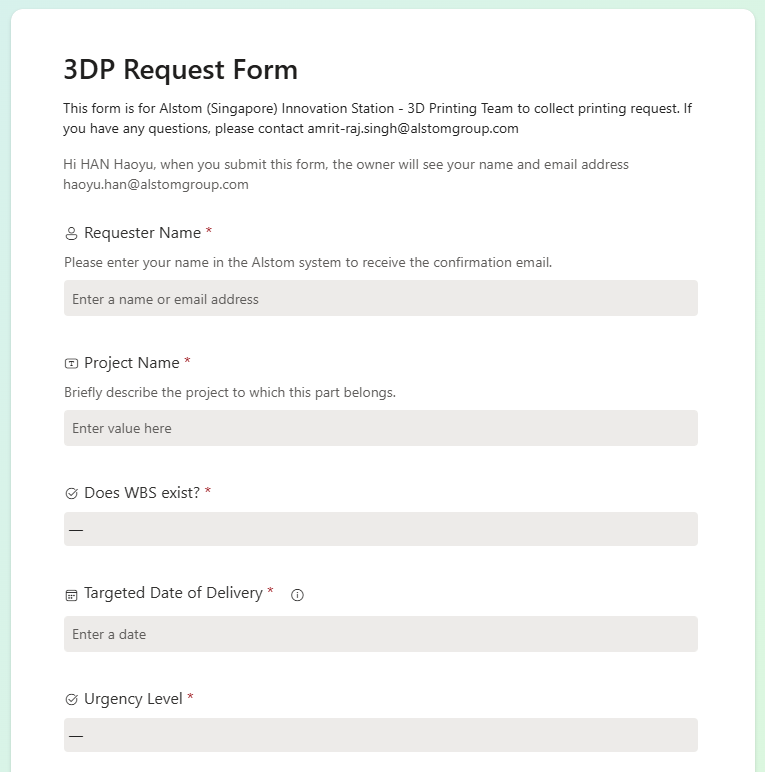
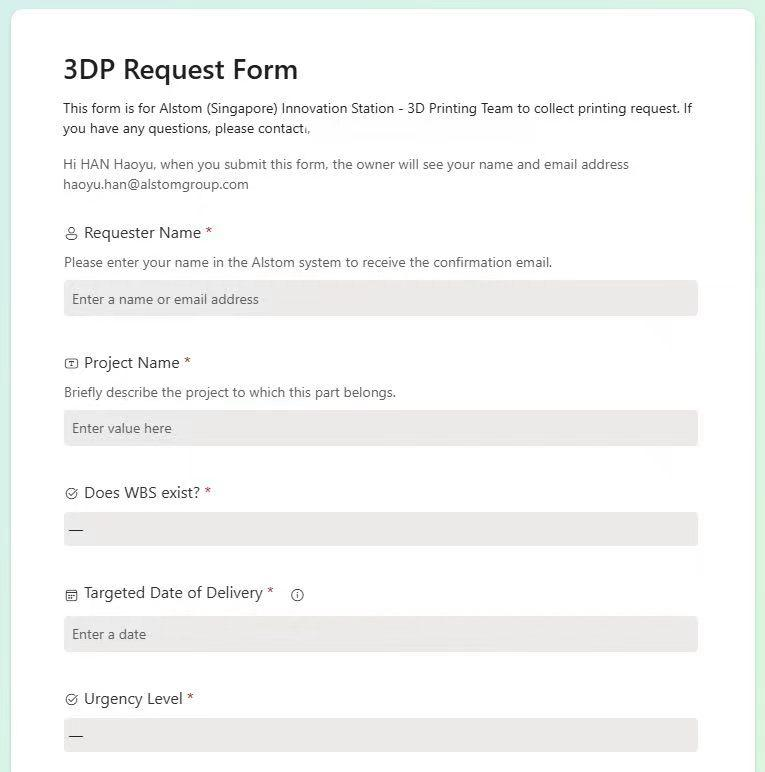
Alstom Details Ready

Changed region(s): [[0.3908, 0.1554, 0.6614, 0.1865]]

diff --git a/src/app/experience/alstom/page.tsx b/src/app/experience/alstom/page.tsx
@@ -16,6 +16,15 @@ const RobotScene = dynamic(() => import("@/components/alstom/RobotScene"), {
     ),
 });
 
+const InteractivePartScene = dynamic(() => import("@/components/alstom/InteractivePartScene"), {
+    ssr: false,
+    loading: () => (
+        <div className="absolute inset-0 flex flex-col items-center justify-center bg-zinc-50 rounded-2xl">
+            <div className="w-6 h-6 border-4 border-zinc-200 border-t-zinc-900 rounded-full animate-spin"></div>
+        </div>
+    ),
+});
+
 function AlstomContent() {
     const searchParams = useSearchParams();
     const lang = searchParams.get("lang") || "zh";
@@ -23,11 +32,36 @@ function AlstomContent() {
 
     const [activeGalleryIndex, setActiveGalleryIndex] = useState(3);
     const galleryMedia = [
-        { type: "image", src: "/media/experience/alstom/gallery-1-tpu.gif" },
-        { type: "image", src: "/media/experience/alstom/gallery-2-indoor-img.png" },
-        { type: "image", src: "/media/experience/alstom/gallery-3-outdoor-img.png" },
-        { type: "video", src: "/media/experience/alstom/gallery-4-rail-test.mp4" },
-        { type: "video", src: "/media/experience/alstom/gallery-5-outdoor-test.mp4" },
+        {
+            type: "image",
+            src: "/media/experience/alstom/gallery-1-tpu.gif",
+            title: isZh ? "FDM 打印工艺与构型多材料测试" : "PETG/TPU Multi-material Prototyping Optimization",
+            desc: isZh ? "测试柔性高分子构件在复杂应力条件下的回弹极限与层间黏结表现。" : "Evaluating interlayer adhesion and elasticity threshold under continuous stress profiling.",
+        },
+        {
+            type: "image",
+            src: "/media/experience/alstom/gallery-2-indoor-img.png",
+            title: isZh ? "车厂实机室内轨道标定与干涉校验" : "Depot Indoor Track Calibration & Interference Analysis",
+            desc: isZh ? "在 Kim Chuan Depot 进行实装匹配，通过多维尺寸校验确保运行动载间隙符合毫米级公差约束。" : "On-site precision fit verification to ensure dynamic clearances comply with millimeter-level tolerances.",
+        },
+        {
+            type: "image",
+            src: "/media/experience/alstom/gallery-3-outdoor-img.png",
+            title: isZh ? "实地部署与复杂坡度地形通过性常规测试" : "Field Deployment & Complex Terrain Navigation Trials",
+            desc: isZh ? "评估小直径履带结构在砂石、坡道等多变地质环境下的越障通过能力。" : "Assessing high-angle climbing independence across highly irregular outdoor aggregate surfaces.",
+        },
+        {
+            type: "video",
+            src: "/media/experience/alstom/gallery-4-rail-test.mp4",
+            title: isZh ? "沿轨自主导向巡检实机闭环运行验证" : "Autonomous Rail-Guided Inspection Operations",
+            desc: isZh ? "针对列车底盘关键探测点执行全自动化视觉循迹与机械臂多姿态拟合巡检测试。" : "Validating closed-loop autonomous navigation and posture optimization for under-train imaging.",
+        },
+        {
+            type: "video",
+            src: "/media/experience/alstom/gallery-5-outdoor-test.mp4",
+            title: isZh ? "全天候户外严苛环境长距离续航极限验证" : "All-Weather Endurance & Locomotion Performance Verification",
+            desc: isZh ? "实测极端高湿度及高温条件下，整体机电架构与电池管理系统的热耗散及防尘防水可靠性。" : "Verifying thermal dissipation efficiency and electromechanical enclosure integrity under high heat and moisture.",
+        },
     ];
 
     const [activeStep, setActiveStep] = useState(0);
@@ -58,7 +92,7 @@ function AlstomContent() {
                     href={`/?lang=${lang}`}
                     className="text-zinc-500 hover:text-zinc-900 transition-colors tracking-widest text-sm font-semibold uppercase"
                 >
-                    {"<"} {isZh ? "返回" : "BACK"}
+                    {"<"} {isZh ? "返回主页" : "BACK TO HOME"}
                 </Link>
             </nav>
 
@@ -73,31 +107,93 @@ function AlstomContent() {
 
             {/* Module 1: Tracked Train Inspection Robot */}
             <section className="max-w-7xl mx-auto px-8 mb-32">
-                <div className="flex items-center gap-4 mb-12">
+                <div className="flex items-center gap-4 mb-8">
                     <span className="text-sm font-bold text-zinc-400 tracking-widest">01 /</span>
                     <h2 className="text-3xl font-semibold tracking-tight">
                         {isZh ? "履带式列车巡检机器人" : "Tracked Train Inspection Robot"}
                     </h2>
                 </div>
 
-                <div className="w-full h-[600px] bg-white rounded-3xl overflow-hidden shadow-2xl shadow-zinc-200/50 mb-16 relative border border-zinc-100">
+                {/* 新增：总述与核心数据 */}
+                <div className="grid grid-cols-1 md:grid-cols-3 gap-8 mb-12">
+                    <div className="md:col-span-2 text-zinc-500 font-light leading-relaxed">
+                        {isZh
+                            ? "基于 DfAM（面向增材制造设计）理念彻底重构。采用 PA6 工程塑料与 FDM 打印工艺，将传统高度集成的商用底盘转化为极具韧性、零供应商依赖的全新机电架构。"
+                            : "Redesigned from the ground up using Design for Additive Manufacturing (DfAM) principles. By utilizing PA6 engineering plastic and FDM printing, the traditional highly integrated commercial chassis was transformed into a resilient, supplier-independent architecture."}
+                    </div>
+                    <div className="flex flex-col justify-between border-l-2 border-zinc-200 pl-6">
+                        <div>
+                            <p className="text-2xl font-semibold text-zinc-800">5 kg</p>
+                            <p className="text-xs text-zinc-400 uppercase tracking-widest">{isZh ? "实机自重" : "Total Weight"}</p>
+                        </div>
+                        <div>
+                            <p className="text-2xl font-semibold text-zinc-800">85° / 15 cm</p>
+                            <p className="text-xs text-zinc-400 uppercase tracking-widest">{isZh ? "极限越障" : "Obstacle Clearance"}</p>
+                        </div>
+                    </div>
+                </div>
+
+                {/* 主展台 */}
+                <div className="w-full h-[420px] bg-white rounded-3xl overflow-hidden shadow-2xl shadow-zinc-200/50 mb-16 relative border border-zinc-100">
                     <RobotScene />
                 </div>
 
-                <div className="grid grid-cols-1 md:grid-cols-2 gap-8 mb-16">
-                    <div className="h-64 border-2 border-dashed border-zinc-300 rounded-3xl flex items-center justify-center bg-zinc-50">
-                        <p className="text-zinc-400 text-sm font-mono">
-                            {isZh ? "交互式结构件 (待接入)" : "Interactive Structure (Pending)"}
-                        </p>
+                {/* 交互式 Bento Box 图文混排 - 升级为双模复合布局 */}
+                <div className="grid grid-cols-1 gap-12 mb-16">
+
+                    {/* 局部组件 1：一体化集成设计 */}
+                    <div className="bg-white rounded-3xl p-8 shadow-xl shadow-zinc-200/30 border border-zinc-100 flex flex-col xl:flex-row gap-8 min-h-[450px] xl:h-[450px]">
+                        {/* 左侧：文字描述 + 静态高精CAD渲染图 */}
+                        <div className="flex-1 flex flex-col">
+                            <div>
+                                <h3 className="text-xl font-bold text-zinc-800 mb-2">{isZh ? "一体化集成设计" : "Integrated Architecture"}</h3>
+                                <p className="text-sm text-zinc-500 leading-relaxed mb-6">
+                                    {isZh ? "通过 DfAM 优化，将理线卡扣、控制板减震与快拆结构高度整合，整机精简至 10 余个核心部件。左图展示最终总装效果，右侧模型支持交互细节拆解。" : "Highly integrated cable routing, shock absorption, and quick-release mechanisms, reducing the assembly to ~10 core parts. Left image displays full CAD assembly, right viewport enables detail inspection."}
+                                </p>
+                            </div>
+                            <div className="relative w-full h-48 xl:h-52 bg-zinc-50 rounded-2xl overflow-hidden border border-zinc-200 mt-2">
+                                <Image src="/media/experience/alstom/robot-part-chassis-render.png" alt="Chassis CAD Render" fill unoptimized className={MEDIA_FILTER} />
+                            </div>
+                        </div>
+                        {/* 右侧：丝滑低面互动 3D 视窗 */}
+                        <div className="flex-1 relative bg-zinc-50 rounded-2xl overflow-hidden border border-zinc-200 h-64 xl:h-full">
+                            <InteractivePartScene modelPath="/media/experience/alstom/robot-part-chassis.glb" />
+                        </div>
                     </div>
-                    <div className="h-64 border-2 border-dashed border-zinc-300 rounded-3xl flex items-center justify-center bg-zinc-50">
-                        <p className="text-zinc-400 text-sm font-mono">
-                            {isZh ? "受力优化节点 (待接入)" : "Interactive Joint (Pending)"}
-                        </p>
+
+                    {/* 局部组件 2：刚性复用与受力优化 */}
+                    <div className="bg-white rounded-3xl p-8 shadow-xl shadow-zinc-200/30 border border-zinc-100 flex flex-col xl:flex-row gap-8 min-h-[450px] xl:h-[450px]">
+                        {/* 左侧：文字描述 + 静态高精CAD渲染图 */}
+                        <div className="flex-1 flex flex-col">
+                            <div>
+                                <h3 className="text-xl font-bold text-zinc-800 mb-2">{isZh ? "刚性复用与受力优化" : "Rigidity & Stress Optimization"}</h3>
+                                <p className="text-sm text-zinc-500 leading-relaxed mb-6">
+                                    {isZh ? "巧妙利用电机金属外壳的物理刚性来分散薄弱环节应力，极大提升了 3D 打印主体结构的整体刚度。配合高分辨率 CAD 数据与流式 3D 交互共同佐证。" : "Innovatively utilizes the motor's metal casing to disperse stress at weak points, significantly enhancing overall structural rigidity. Documented via high-res CAD renders combined with lightweight fluid 3D viewports."}
+                                </p>
+                            </div>
+                            <div className="relative w-full h-48 xl:h-52 bg-zinc-50 rounded-2xl overflow-hidden border border-zinc-200 mt-2">
+                                <Image src="/media/experience/alstom/robot-part-joint-render.png" alt="Joint CAD Render" fill unoptimized className={MEDIA_FILTER} />
+                            </div>
+                        </div>
+                        {/* 右侧：丝滑低面互动 3D 视窗 */}
+                        <div className="flex-1 relative bg-zinc-50 rounded-2xl overflow-hidden border border-zinc-200 h-64 xl:h-full">
+                            <InteractivePartScene modelPath="/media/experience/alstom/robot-part-joint.glb" />
+                        </div>
                     </div>
+
                 </div>
 
+                {/* 画廊保持原样 */}
                 <div className="bg-white p-6 md:p-12 rounded-3xl shadow-xl shadow-zinc-200/30 border border-zinc-100">
+                    {/* 画廊联动高灵敏度文本描述控制台 */}
+                    <div className="mb-3 pb-6 border-b border-zinc-100 transition-all duration-300">
+                        <h4 className="text-xl font-bold text-zinc-900 tracking-tight mb-2">
+                            {galleryMedia[activeGalleryIndex].title}
+                        </h4>
+                        <p className="text-sm text-zinc-500 font-light leading-relaxed">
+                            {galleryMedia[activeGalleryIndex].desc}
+                        </p>
+                    </div>
                     <div className="w-full h-[400px] md:h-[600px] bg-zinc-50 rounded-2xl overflow-hidden flex items-center justify-center mb-8 relative border border-zinc-200">
                         {galleryMedia[activeGalleryIndex].type === "video" ? (
                             <video
@@ -194,7 +290,7 @@ function AlstomContent() {
 
             {/* Module 3: Digital Workflow Dashboard */}
             <section className="max-w-7xl mx-auto px-8">
-                <div className="flex items-center gap-4 mb-16">
+                <div className="flex items-center gap-4 mb-10">
                     <span className="text-sm font-bold text-zinc-400 tracking-widest">03 /</span>
                     <h2 className="text-3xl font-semibold tracking-tight">
                         {isZh ? "数字化工作流看板" : "Digital Workflow Dashboard"}
@@ -211,8 +307,8 @@ function AlstomContent() {
                                 key={idx}
                                 onClick={() => setActiveWorkflowStep(idx)}
                                 className={`flex items-center gap-3 px-4 py-3 rounded-2xl whitespace-nowrap transition-all ${activeWorkflowStep === idx
-                                        ? 'bg-zinc-900 text-white shadow-md'
-                                        : 'hover:bg-zinc-100 text-zinc-500'
+                                    ? 'bg-zinc-900 text-white shadow-md'
+                                    : 'hover:bg-zinc-100 text-zinc-500'
                                     }`}
                             >
                                 <span className={`font-mono text-sm ${activeWorkflowStep === idx ? 'opacity-70' : 'opacity-50'}`}>0{idx + 1}</span>

diff --git a/src/components/alstom/InteractivePartScene.tsx b/src/components/alstom/InteractivePartScene.tsx
@@ -1,0 +1,28 @@
+"use client";
+import React, { Suspense } from "react";
+import { Canvas } from "@react-three/fiber";
+import { OrbitControls, useGLTF, Center, Bounds } from "@react-three/drei";
+
+function Model({ modelPath }: { modelPath: string }) {
+    const { scene } = useGLTF(modelPath);
+    return <primitive object={scene} />;
+}
+
+export default function InteractivePartScene({ modelPath }: { modelPath: string }) {
+    return (
+        <Canvas camera={{ position: [0, 2, 6], fov: 50 }} className="w-full h-full cursor-grab active:cursor-grabbing" dpr={[1, 2]}>
+            <ambientLight intensity={0.8} />
+            <directionalLight position={[10, 10, 5]} intensity={1.5} />
+            <directionalLight position={[-10, -10, -5]} intensity={0.5} />
+            <Suspense fallback={null}>
+                <Bounds fit clip observe margin={1.2}>
+                    <Center>
+                        <Model modelPath={modelPath} />
+                    </Center>
+                </Bounds>
+            </Suspense>
+            {/* 开启所有交互，并启用 damping(阻尼) 保证拖拽丝滑 */}
+            <OrbitControls makeDefault enableDamping dampingFactor={0.05} enableZoom={true} enablePan={true} enableRotate={true} />
+        </Canvas>
+    );
+}

diff --git a/src/components/alstom/RobotScene.tsx b/src/components/alstom/RobotScene.tsx
@@ -21,7 +21,7 @@ export default function RobotScene() {
                     </Center>
                 </Bounds>
             </Suspense>
-            <OrbitControls autoRotate autoRotateSpeed={12} enableZoom={false} enablePan={false} enableRotate={false} />
+            <OrbitControls autoRotate autoRotateSpeed={8} enableZoom={false} enablePan={false} enableRotate={false} />
         </Canvas>
     );
 }
